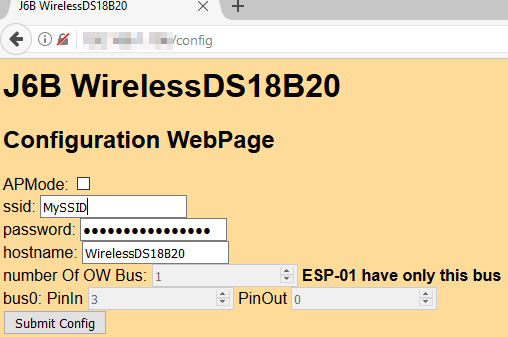
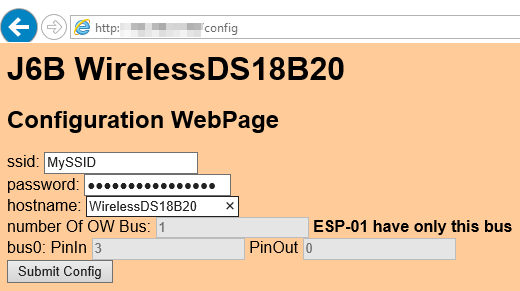
Update Color

diff --git a/data/config.html b/data/config.html
@@ -4,7 +4,7 @@
     <meta charset="utf-8">
     <script> sessionStorage.setItem("ProductName","WirelessDS18B20"); document.title='J6B '+sessionStorage.getItem("ProductName");</script>
 </head>
-<body style="background-color: #ffdb99; Color: #000000;font-family: Arial;">
+<body style="background-color: #ffcc99; Color: #000000;font-family: Arial;">
     <h1 style="display:inline">J6B <script>document.write(sessionStorage.getItem("ProductName"))</script></h1><span id="l"><h2 style="display:inline"><b> Loading...</b></h2></span><br>
     <span id='i'></span><br>
     <h2 style="display:inline">Configuration WebPage</h2><span id="l1"><h2 style="display:inline"><b> Loading...</b></h2></span><br><br>

diff --git a/data/status.html b/data/status.html
@@ -4,7 +4,7 @@
     <meta charset="utf-8">
     <script> sessionStorage.setItem("ProductName","WirelessDS18B20"); document.title='J6B '+sessionStorage.getItem("ProductName");</script>
 </head>
-<body style="background-color: #ffdb99; Color: #000000;font-family: Arial;">
+<body style="background-color: #ffcc99; Color: #000000;font-family: Arial;">
     <h1 style="display:inline">J6B <script>document.write(sessionStorage.getItem("ProductName"))</script></h1><span id="l"><h2 style="display:inline"><b> Loading...</b></h2></span><br>
     <span id='i'></span><br>
     <h2 style="display:inline">System Status</h2><span id="l1"><h2 style="display:inline"><b> Loading...</b></h2></span><br>

diff --git a/data/fw.html b/data/fw.html
@@ -17,7 +17,7 @@
         }
         </script>
     </head>
-    <body style="background-color: #ffdb99; Color: #000000;font-family: Arial;">
+    <body style="background-color: #ffcc99; Color: #000000;font-family: Arial;">
         <h1>J6B <script>document.write(sessionStorage.getItem("ProductName"))</script></h1>
         <h2 style="display:inline">Firmware Management Page</h2><span id="l1"><h2 style="display:inline"><b> Loading...</b></h2></span>
 

diff --git a/data/fwdev.html b/data/fwdev.html
@@ -17,7 +17,7 @@
         }
         </script>
     </head>
-    <body style="background-color: #ffdb99; Color: #000000;font-family: Arial;">
+    <body style="background-color: #ffcc99; Color: #000000;font-family: Arial;">
         <h1>J6B <script>document.write(sessionStorage.getItem("ProductName"))</script></h1>
         <h2 style="display:inline">Firmware Management Page</h2><span id="l1"><h2 style="display:inline"><b> Loading...</b></h2></span>
 
